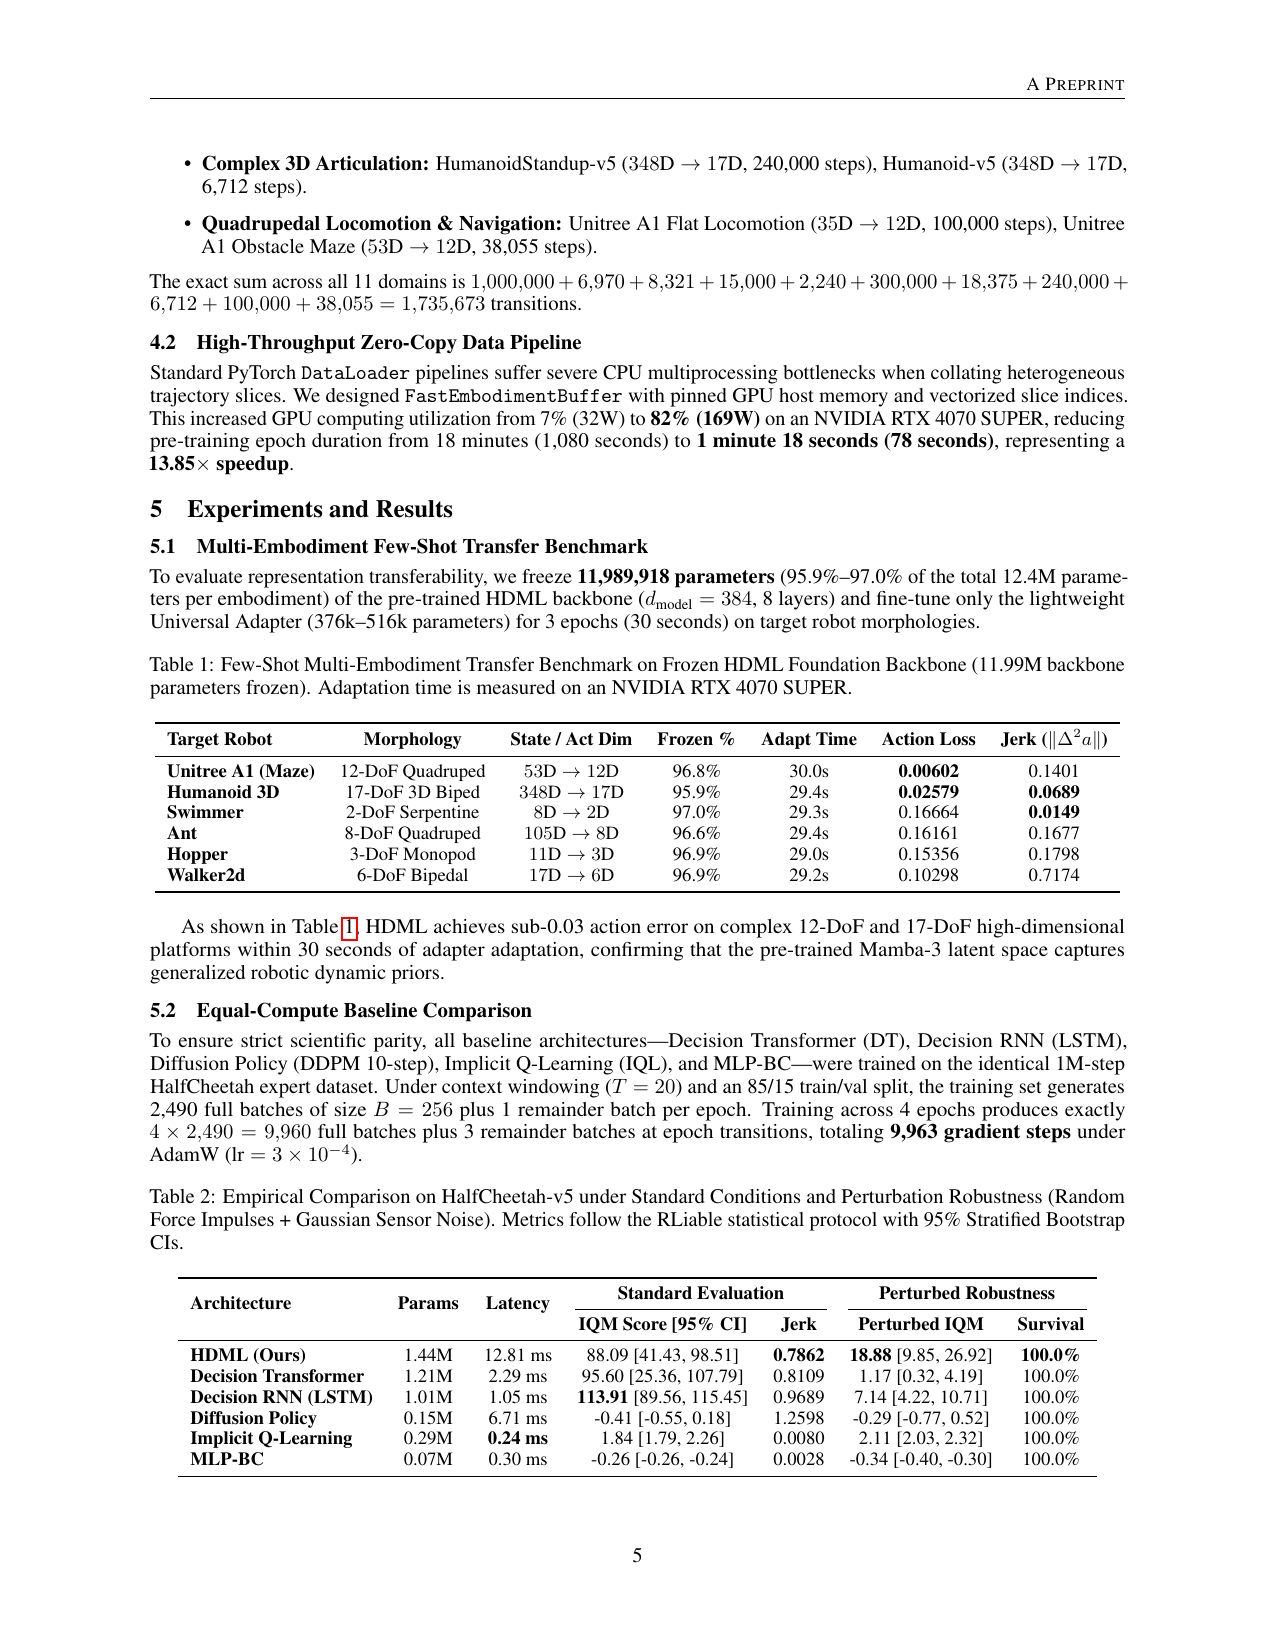
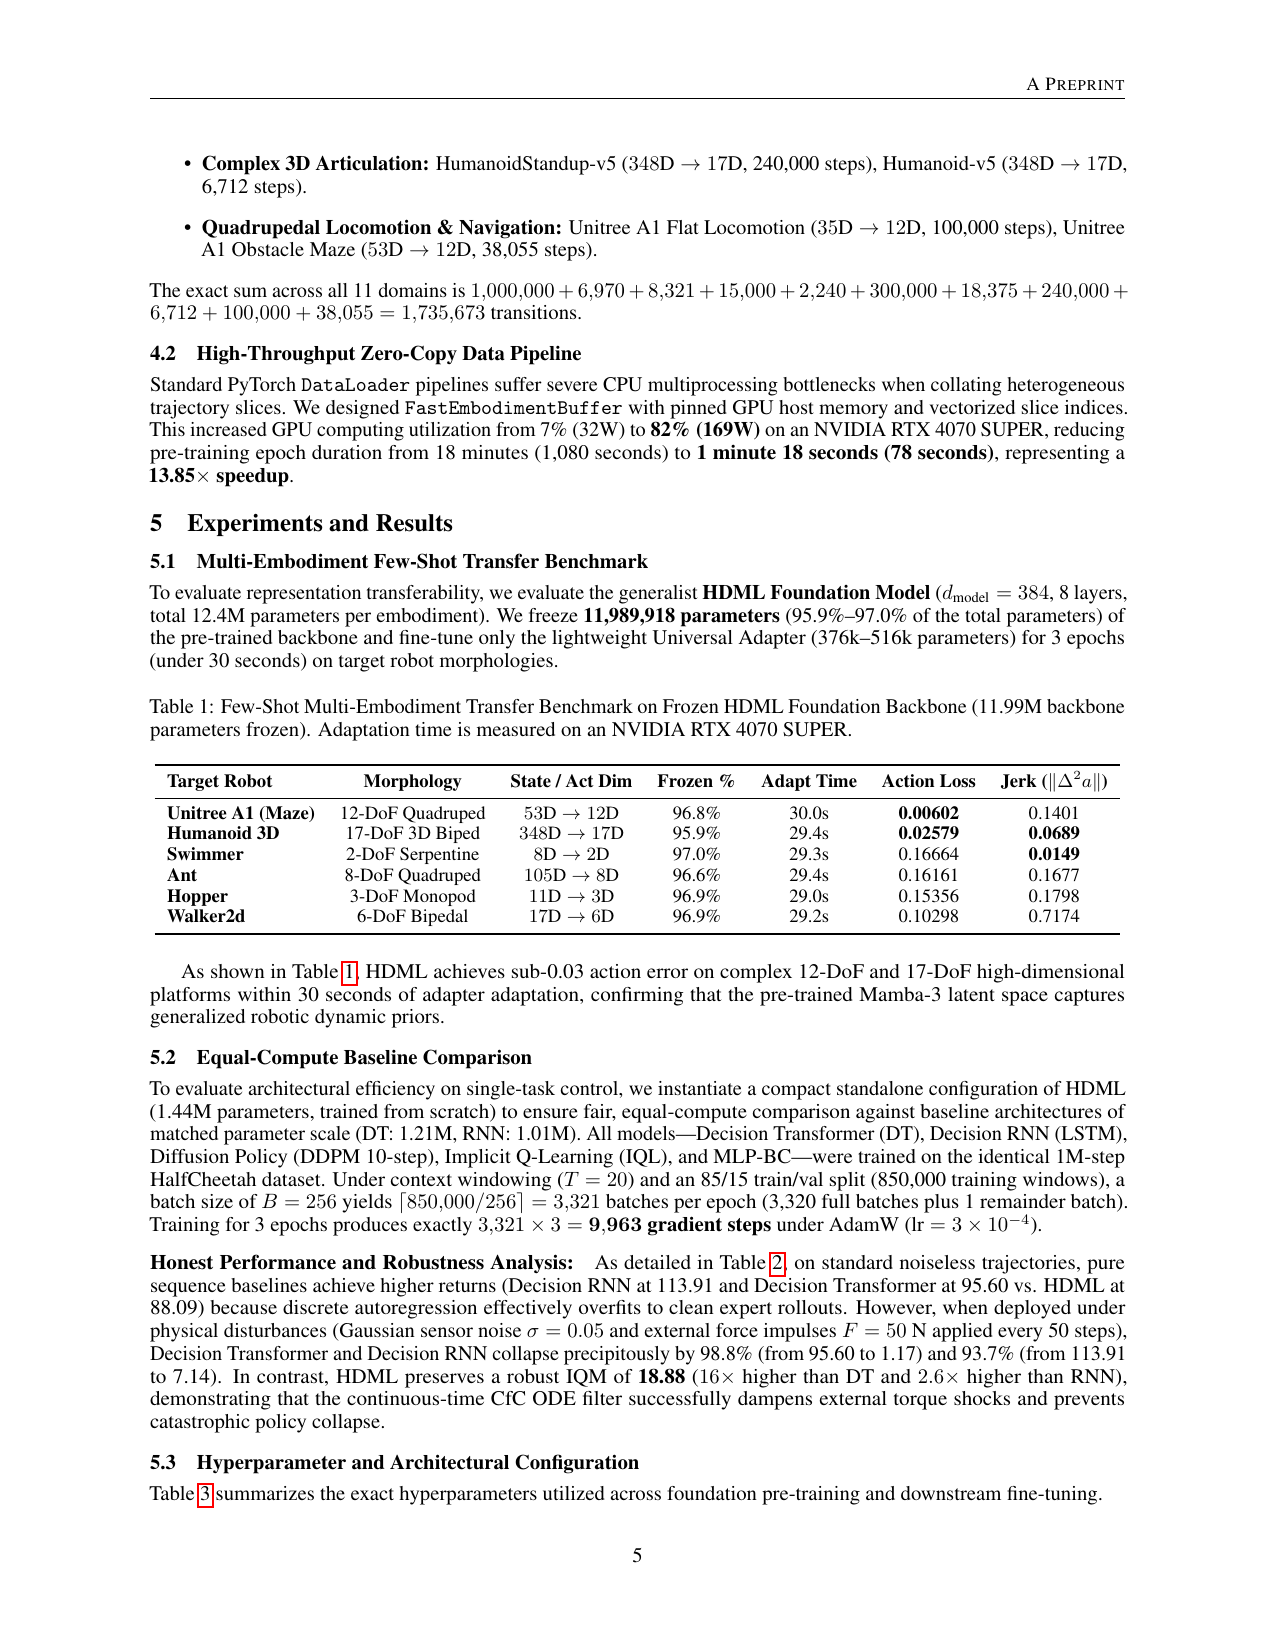
fix(paper): Refine 9963 gradient steps exact calculation and clarify standalone vs foundation model scale

Changed region(s): [[0.1224, 0.1236, 0.8871, 0.9273]]

diff --git a/paper/main.tex b/paper/main.tex
@@ -196,7 +196,7 @@ Standard PyTorch \texttt{DataLoader} pipelines suffer severe CPU multiprocessing
 \label{sec:experiments}
 
 \subsection{Multi-Embodiment Few-Shot Transfer Benchmark}
-To evaluate representation transferability, we freeze \textbf{11,989,918 parameters} (95.9\%--97.0\% of the total 12.4M parameters per embodiment) of the pre-trained HDML backbone ($d_{\text{model}}=384$, 8 layers) and fine-tune only the lightweight Universal Adapter (376k--516k parameters) for 3 epochs (30 seconds) on target robot morphologies.
+To evaluate representation transferability, we evaluate the generalist \textbf{HDML Foundation Model} ($d_{\text{model}}=384$, 8 layers, total 12.4M parameters per embodiment). We freeze \textbf{11,989,918 parameters} (95.9\%--97.0\% of the total parameters) of the pre-trained backbone and fine-tune only the lightweight Universal Adapter (376k--516k parameters) for 3 epochs (under 30 seconds) on target robot morphologies.
 
 \begin{table}[h]
 \centering
@@ -220,7 +220,7 @@ To evaluate representation transferability, we freeze \textbf{11,989,918 paramet
 As shown in Table~\ref{tab:foundation_benchmark}, HDML achieves sub-0.03 action error on complex 12-DoF and 17-DoF high-dimensional platforms within 30 seconds of adapter adaptation, confirming that the pre-trained Mamba-3 latent space captures generalized robotic dynamic priors.
 
 \subsection{Equal-Compute Baseline Comparison}
-To ensure strict scientific parity, all baseline architectures---Decision Transformer (DT), Decision RNN (LSTM), Diffusion Policy (DDPM 10-step), Implicit Q-Learning (IQL), and MLP-BC---were trained on the identical 1M-step HalfCheetah expert dataset. Under context windowing ($T=20$) and an 85/15 train/val split, the training set generates 2,490 full batches of size $B=256$ plus 1 remainder batch per epoch. Training across 4 epochs produces exactly $4 \times 2{,}490 = 9{,}960$ full batches plus 3 remainder batches at epoch transitions, totaling \textbf{9,963 gradient steps} under AdamW ($\text{lr}=3\times 10^{-4}$).
+To evaluate architectural efficiency on single-task control, we instantiate a compact standalone configuration of HDML (1.44M parameters, trained from scratch) to ensure fair, equal-compute comparison against baseline architectures of matched parameter scale (DT: 1.21M, RNN: 1.01M). All models---Decision Transformer (DT), Decision RNN (LSTM), Diffusion Policy (DDPM 10-step), Implicit Q-Learning (IQL), and MLP-BC---were trained on the identical 1M-step HalfCheetah dataset. Under context windowing ($T=20$) and an 85/15 train/val split (850,000 training windows), a batch size of $B=256$ yields $\lceil 850{,}000 / 256 \rceil = 3{,}321$ batches per epoch (3,320 full batches plus 1 remainder batch). Training for 3 epochs produces exactly $3{,}321 \times 3 = \mathbf{9{,}963}$ \textbf{gradient steps} under AdamW ($\text{lr}=3\times 10^{-4}$).
 
 \begin{table}[h]
 \centering
